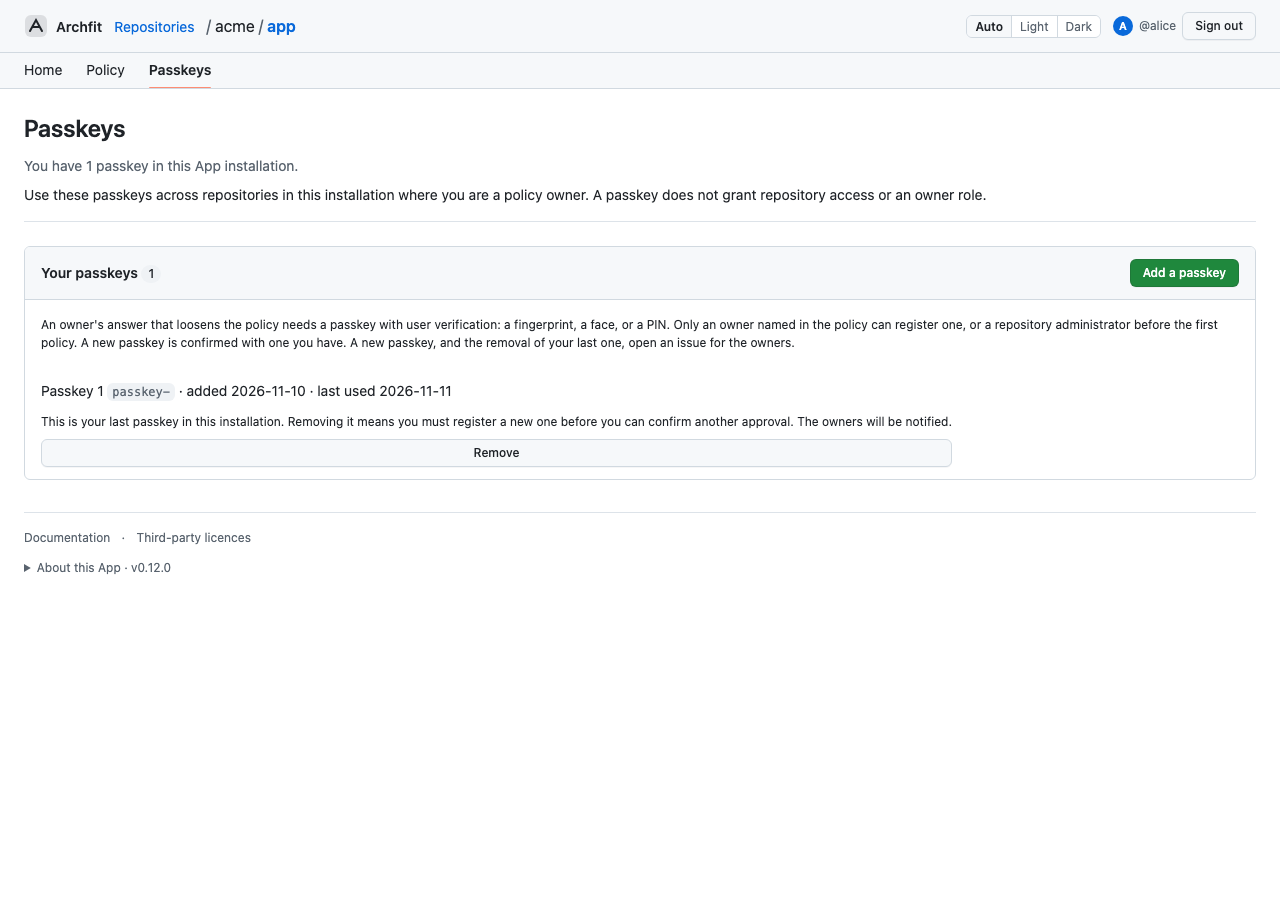
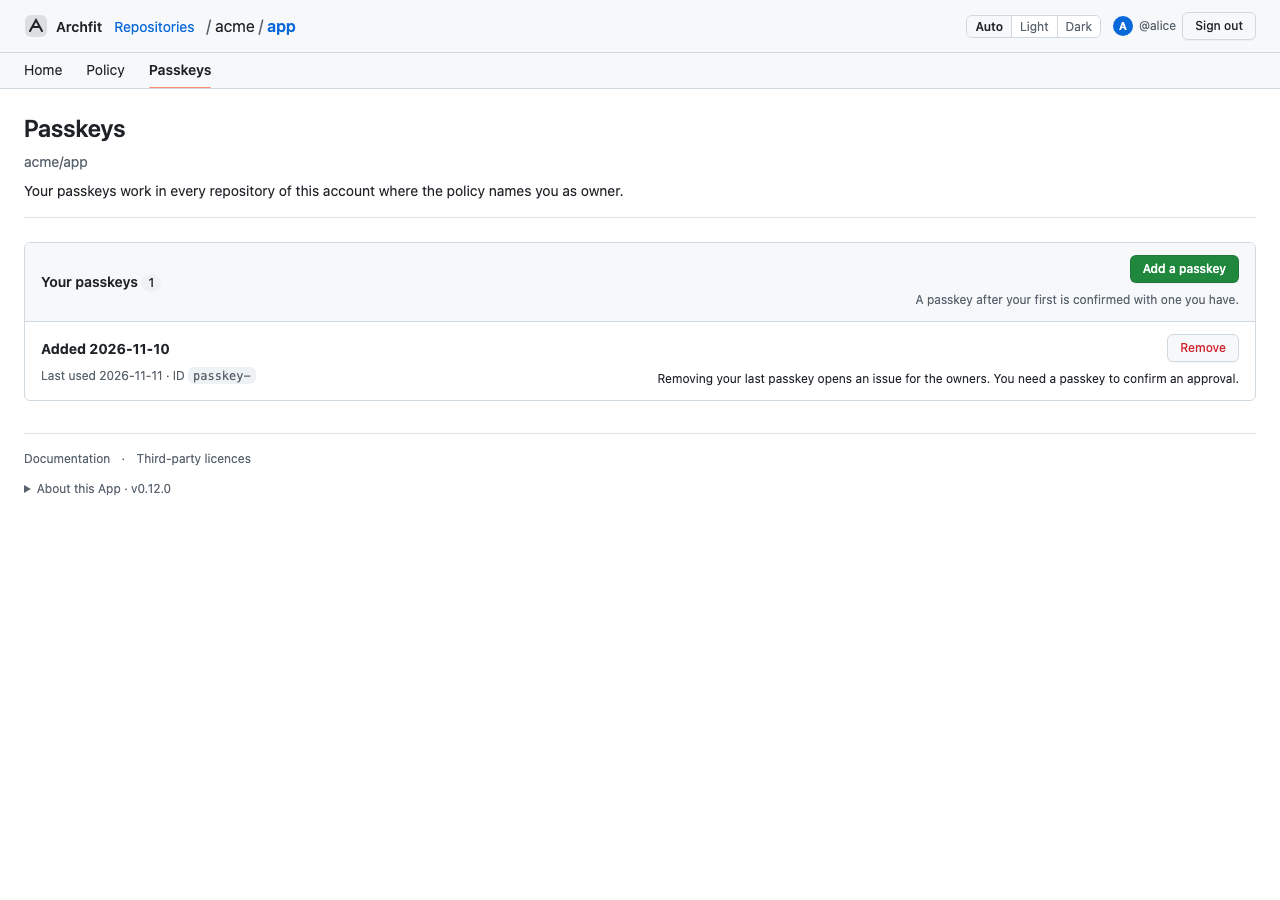
fix(web): Remove is a compact danger button, right-aligned, with its consequence under it
Also regenerates docs/images/passkeys.png, which still showed the old paragraph.

diff --git a/web/src/pages/Passkeys.svelte b/web/src/pages/Passkeys.svelte
@@ -81,11 +81,11 @@
             <div class="stack-sm passkey-remove">
               {#if removing === p.id}
                 <span class="btn-group">
-                  <button class="btn sm" type="button" aria-describedby={list.length === 1 ? 'last-key' : undefined} disabled={busy} onclick={() => remove(p.id)}>Confirm removal</button>
+                  <button class="btn sm danger" type="button" aria-describedby={list.length === 1 ? 'last-key' : undefined} disabled={busy} onclick={() => remove(p.id)}>Confirm removal</button>
                   <button class="btn sm" type="button" disabled={busy} onclick={() => (removing = '')}>Keep it</button>
                 </span>
               {:else}
-                <button class="btn sm" type="button" aria-label={`Remove the passkey added ${day(p.created)} (ID ${p.id.slice(0, 8)})`}
+                <button class="btn sm danger" type="button" aria-label={`Remove the passkey added ${day(p.created)} (ID ${p.id.slice(0, 8)})`}
                   aria-describedby={list.length === 1 ? 'last-key' : undefined} disabled={busy} onclick={() => (removing = p.id)}>Remove</button>
               {/if}
               {#if list.length === 1}<p class="small" id="last-key">Removing your last passkey opens an issue for the owners. You need a passkey to confirm an approval.</p>{/if}
@@ -101,3 +101,9 @@
     {#if error}<p class="flash error" role="alert">{error}</p>{/if}
   </section>
 {/if}
+
+<style>
+  .passkey-remove { align-items: flex-end; text-align: right; flex: none; }
+  .passkey-remove .btn { width: auto; }
+  .passkey-add { align-items: flex-end; text-align: right; }
+</style>
